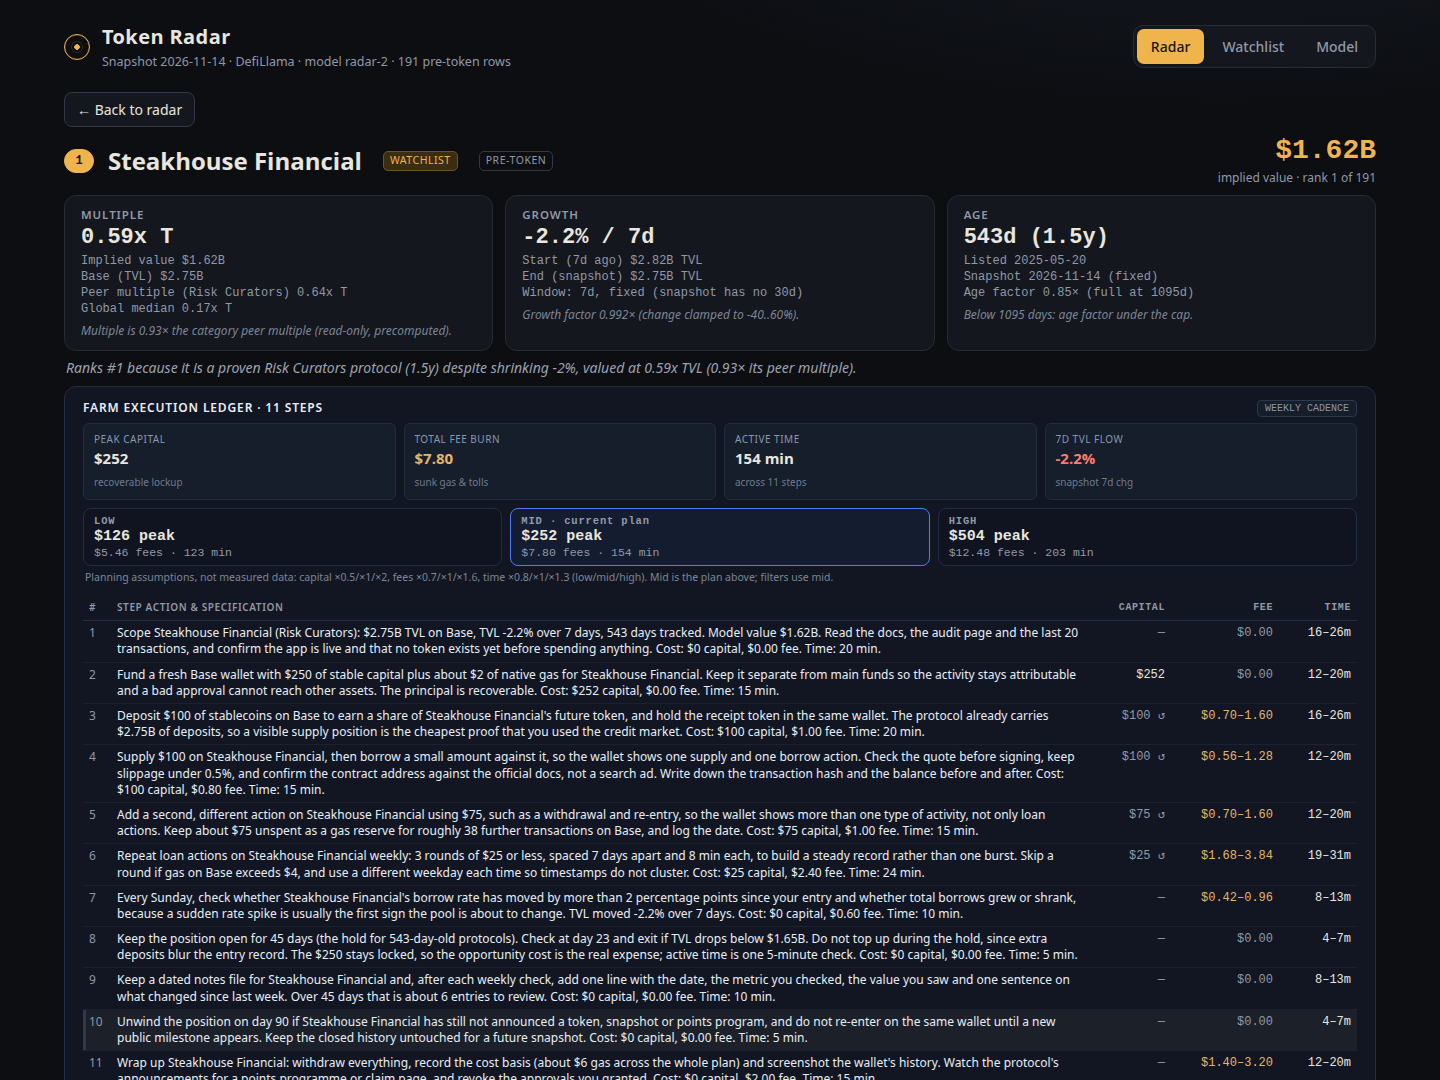
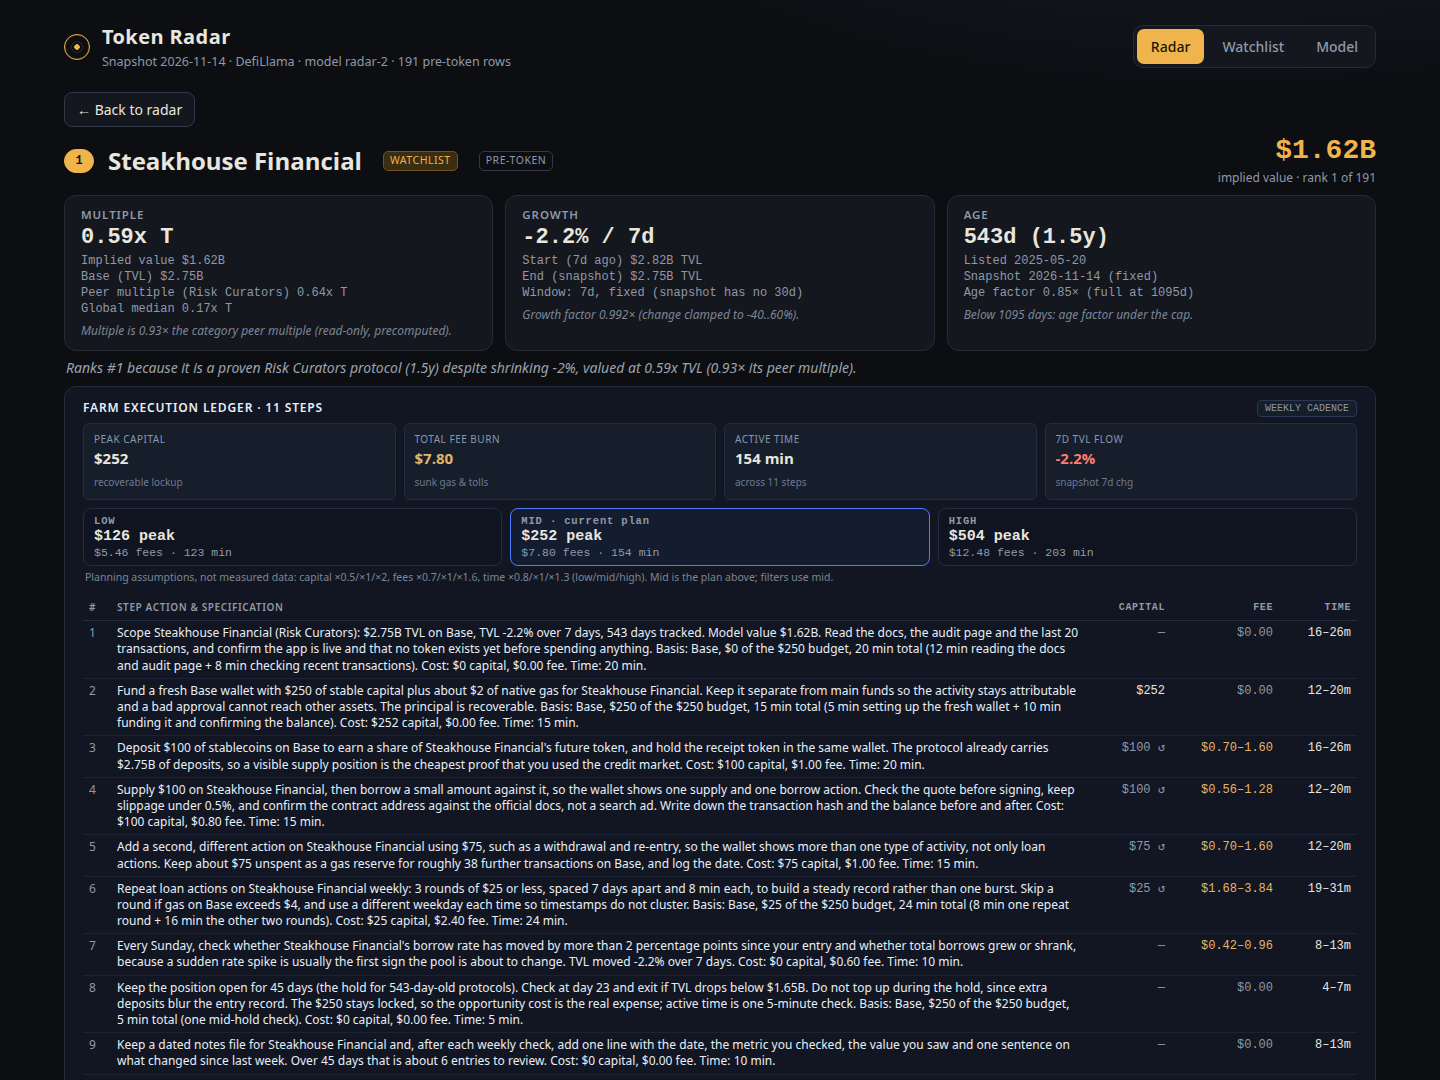
Dashboard v16: first-look screenshots and label polish
- Screenshots retaken per lib/firstlook.ts SHOT_STATES: 01 cover is now the default unfiltered board (191 rows, stats strip, top ranks), 02 detail of #1, 03 filtered view (Rising preset, cap=150&sig=rise, 35 rows) replacing the watchlist shot
- Label swaps (size-neutral or smaller): title shortened, board hint shortened while keeping evidence/ledger/farm-plan wording
- New lib/firstlook.ts by gpt-oss, audited/wired by Claude; board.json byte-identical to v15, dashboard 64,608 B

diff --git a/dashboard/app.js b/dashboard/app.js
@@ -244,7 +244,7 @@
       }).join('');
     }
     document.getElementById('bt').innerHTML = head(pre ? PCOLS : LCOLS, st) + '<tbody>' + body + '</tbody>';
-    document.getElementById('hint').textContent = pre ? 'Click a row for the evidence, execution ledger and farm plan. Global rank stays fixed while filtering; ties break by rank, then slug. Null values sort last.' : 'Observed market caps from the snapshot: reference comps that calibrate the category multiples. No rank, implied value or farm plan applies to them.';
+    document.getElementById('hint').textContent = pre ? 'Click a row for evidence, ledger and farm plan. Global rank stays fixed while filtering; ties break by rank, then slug. Null values sort last.' : 'Observed market caps from the snapshot: reference comps that calibrate the category multiples. No rank, implied value or farm plan applies to them.';
     var lr = !pre && S.card && bySlugL[S.card];
     document.getElementById('card').innerHTML = lr ? '<div class="lcard"><b>' + esc(lr.name) + (lr.symbol ? ' $' + esc(lr.symbol) : '') + '</b> · ' + esc(lr.cat) + ' · market cap ' + full(lr.mcap_usd) + ' · TVL ' + full(lr.tvl_usd) + ' · observed mcap/TVL ' + mult(lr.mcap_tvl) + ' · 7d ' + chg(lr.tvl_7d_pct) + ' · ' + esc(lr.chains.join(', ')) + ' <button id="cx">Close</button></div>' : '';
     if (lr) document.getElementById('cx').onclick = function () { S.card = ''; drawBoard(); };

diff --git a/lib/firstlook.ts b/lib/firstlook.ts
@@ -1,0 +1,42 @@
+export interface ShotState {
+  file: string;
+  route: string;
+  mustShow: string[];
+}
+
+export const SHOT_STATES: ShotState[] = [
+  {
+    file: '01-cover.png',
+    route: '#board',
+    mustShow: ['stats strip', 'full unfiltered board', 'top-ranked rows'],
+  },
+  {
+    file: '02-detail.png',
+    route: '#p/<rank-1 slug>',
+    mustShow: ['detail header', 'implied value', 'valuation breakdown'],
+  },
+  {
+    file: '03-filtered.png',
+    route: '#board?cap=150&sig=rise',
+    mustShow: ['Rising preset active', 'filtered rows', 'preset row'],
+  },
+];
+
+export interface LabelSwap {
+  file: string;
+  from: string;
+  to: string;
+}
+
+export const LABEL_SWAPS: LabelSwap[] = [
+  {
+    file: 'dashboard/index.html',
+    from: 'Token Radar · pre-token launch board',
+    to: 'Token Radar · pre-token board',
+  },
+  {
+    file: 'dashboard/app.js',
+    from: 'Click a row for the evidence, execution ledger and farm plan.',
+    to: 'Click a row for evidence, ledger and farm plan.',
+  },
+];

diff --git a/dashboard/index.html b/dashboard/index.html
@@ -1,7 +1,7 @@
 <!doctype html>
 <html lang="en"><head><meta charset="utf-8">
 <meta name="viewport" content="width=device-width,initial-scale=1">
-<title>Token Radar · pre-token launch board</title>
+<title>Token Radar · pre-token board</title>
 <link rel="stylesheet" href="app.css"></head>
 <body>
 <header class="top"><div class="brand"><span class="blip" aria-hidden="true"></span><div><h1>Token Radar</h1><p id="sub">Loading…</p></div></div>
